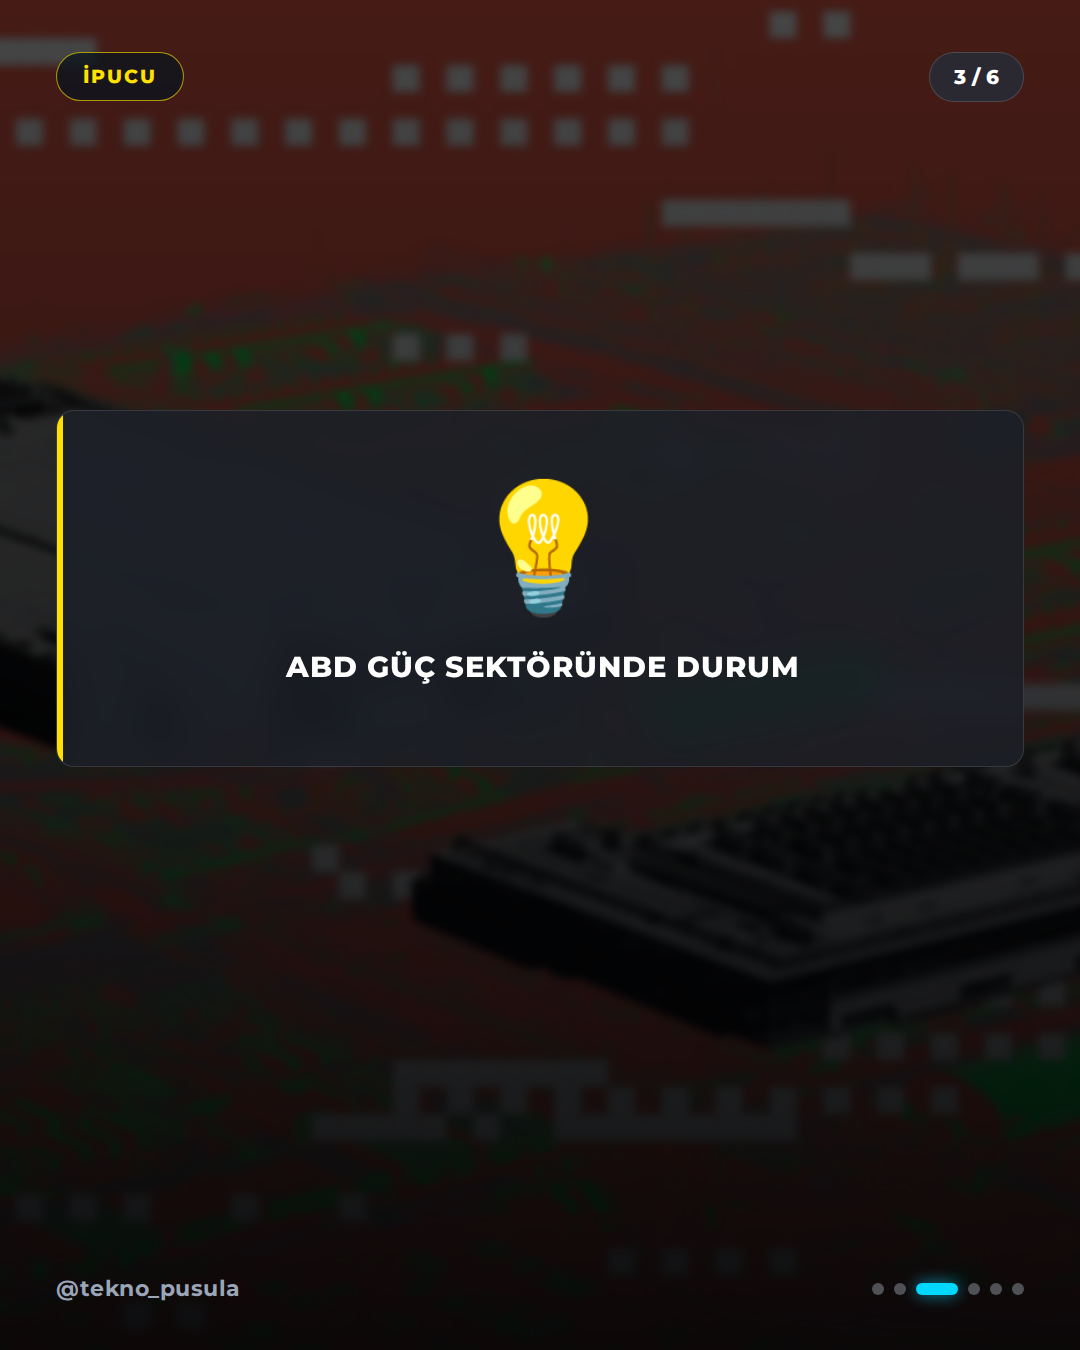
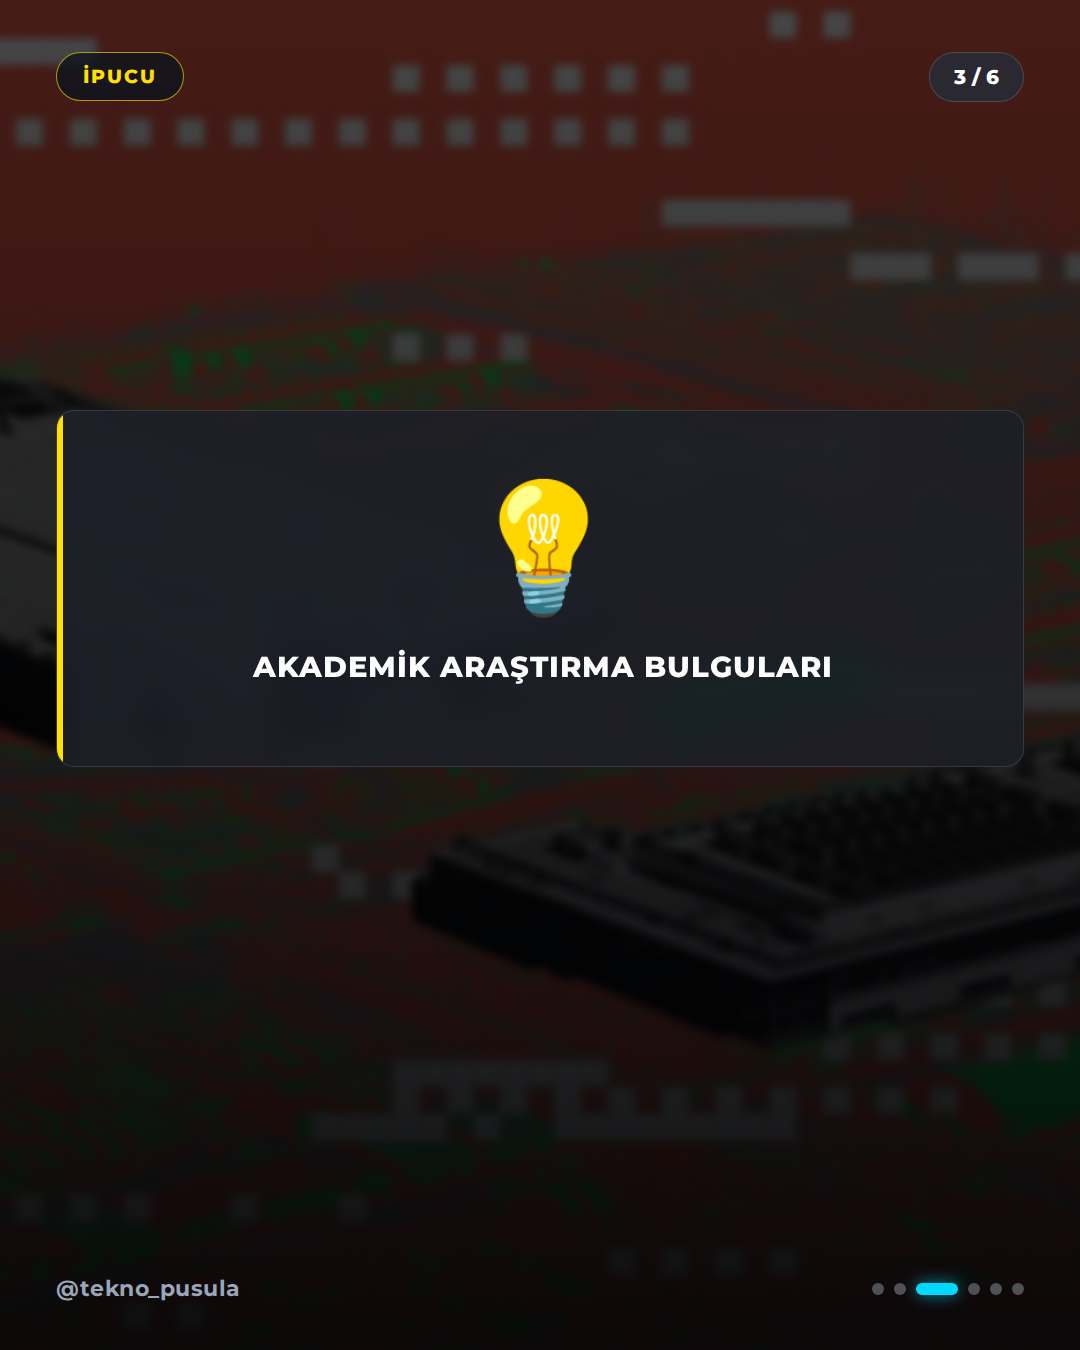
🤖 post: 2026-10-29 18:00 – Data centers could send US climate pollution skyrocketing

Changed region(s): [[0.2444, 0.4667, 0.7639, 0.5289]]

diff --git a/output/2026-10-29/04-1800-data-centers-could-send-us-climate-pollution-sky/verification.md b/output/2026-10-29/04-1800-data-centers-could-send-us-climate-pollution-sky/verification.md
@@ -3,40 +3,38 @@
 **Haber:** Data centers could send US climate pollution skyrocketing
 **Canonical URL:** https://www.theverge.com/science/1022258/data-centers-climate-change-carbon-dioxide-pollution-gas
 **Kaynaklar:** The Verge, MIT Technology Review
-**Kontrol zamanı:** 2026-10-29T20:28:21+03:00
+**Kontrol zamanı:** 2026-10-29T20:33:01+03:00
 **Sonuç:** ✅ YAYINLANABİLİR
 
 ---
 
 ## İddia Bazlı Sonuçlar
 
-### 1. ABD güç sektörünün karbondioksit kirliliği 2030 yılına kadar 2025 yılına göre yüzde 42 oranında artabilir.
+### 1. ABD elektrik sektörünün karbon dioksit kirliliği, veri merkezi elektrik talebi nedeniyle 2030 yılına kadar 2025 yılına göre yüzde 42 daha fazla artabilir.
 - **Karar:** ✅ `supported`
 - **Kanıtlar:**
   - [https://www.theverge.com/science/1022258/data-centers-climate-change-carbon-dioxide-pollution-gas](https://www.theverge.com/science/1022258/data-centers-climate-change-carbon-dioxide-pollution-gas)
     > The US power sector could release 42 percent more planet-heating carbon dioxide pollution by 2030 than it did in 2025 as it builds out more fossil fuel infrastructure to meet data center electricity demand, according to a new analysis by the Sierra Club.
-  - [https://www.theverge.com/science/1022258/data-centers-climate-change-carbon-dioxide-pollution-gas](https://www.theverge.com/science/1022258/data-centers-climate-change-carbon-dioxide-pollution-gas)
-    > The US power sector could release 42 percent more planet-heating carbon dioxide pollution by 2030 than it did in 2025 as it builds out more fossil fuel infrastructure to meet data center electricity demand
 
-### 2. Planlanan yapay zeka projeleri inşa edilirse elektrik üretiminden kaynaklanan CO2 emisyonları on yılın sonuna kadar 618 milyon ton artacak.
+### 2. Planlanan yapay zeka projeleri inşa edilirse elektrik üretiminden kaynaklanan CO2 emisyonları on katının sonuna kadar 618 milyon ton artacak.
 - **Karar:** ✅ `supported`
 - **Kanıtlar:**
   - [https://www.theverge.com/science/1022258/data-centers-climate-change-carbon-dioxide-pollution-gas](https://www.theverge.com/science/1022258/data-centers-climate-change-carbon-dioxide-pollution-gas)
     > CO2 emissions from electricity generation would increase by 618 million tons by the end of the decade if planned AI projects are constructed.
 
-### 3. Akademik araştırmacılar tarafından haziran ayında yayınlanan başka bir çalışma, veri merkezleri ve kripto madenlerinden gelen elektrik talebinin güç sektörü emisyonlarını 2030 yılına kadar yüzde 28 artırabileceğini öngördü.
+### 3. Akademik araştırmacılar tarafından haziran ayında yayınlanan başka bir çalışma, veri merkezi ve kripto madeni elektrik talebinin 2030 yılına kadar güç sektörü emisyonlarını yüzde 28 artırabileceğini öngördü.
 - **Karar:** ✅ `supported`
 - **Kanıtlar:**
   - [https://www.theverge.com/science/1022258/data-centers-climate-change-carbon-dioxide-pollution-gas](https://www.theverge.com/science/1022258/data-centers-climate-change-carbon-dioxide-pollution-gas)
     > Another study published by academic researchers in June forecast that electricity demand from data centers and crypto mines could push up power sector emissions by 28 percent by 2030 when compared to a scenario with no data center growth.
 
-### 4. Net ABD sera gazı emisyonları 2007 yılında yaklaşık 6,58 milyar metrik tondan 2025 yılında yaklaşık 5,35 milyar metrik tona geriledi.
+### 4. ABD'nin net seragazı emisyonları 2007 yılında yaklaşık 6,58 milyar metrik ton iken 2025 yılında yaklaşık 5,35 milyar metrik tona geriledi.
 - **Karar:** ✅ `supported`
 - **Kanıtlar:**
   - [https://www.theverge.com/science/1022258/data-centers-climate-change-carbon-dioxide-pollution-gas](https://www.theverge.com/science/1022258/data-centers-climate-change-carbon-dioxide-pollution-gas)
     > Net US greenhouse gas emission have fallen from a peak of about 6.58 billion metric tons in 2007 to about 5.35 billion metric tons in 2025.
 
-### 5. ABD, bu ay Environmental Defense Fund tarafından yayınlanan ayrı bir rapora göre, on yıldır olmadığı kadar çok fosil yakıt kapasitesi inşa etmeyi planlıyor.
+### 5. Environmental Defense Fund tarafından bu ay yayınlanan ayrı bir rapora göre ABD, son on yılda planladığından daha fazla fosil yakıt kapasitesi inşa etmeyi planlıyor.
 - **Karar:** ✅ `supported`
 - **Kanıtlar:**
   - [https://www.theverge.com/science/1022258/data-centers-climate-change-carbon-dioxide-pollution-gas](https://www.theverge.com/science/1022258/data-centers-climate-change-carbon-dioxide-pollution-gas)
@@ -48,11 +46,11 @@
 
 | İddia | 1. Tur | 2. Tur | Nihai |
 |-------|--------|--------|-------|
-| ABD güç sektörünün karbondioksit kirliliği 2030 yılına kadar | supported | supported | supported |
+| ABD elektrik sektörünün karbon dioksit kirliliği, veri merke | supported | supported | supported |
 | Planlanan yapay zeka projeleri inşa edilirse elektrik üretim | supported | supported | supported |
 | Akademik araştırmacılar tarafından haziran ayında yayınlanan | supported | supported | supported |
-| Net ABD sera gazı emisyonları 2007 yılında yaklaşık 6,58 mil | supported | supported | supported |
-| ABD, bu ay Environmental Defense Fund tarafından yayınlanan  | supported | supported | supported |
+| ABD'nin net seragazı emisyonları 2007 yılında yaklaşık 6,58  | supported | supported | supported |
+| Environmental Defense Fund tarafından bu ay yayınlanan ayrı  | supported | supported | supported |
 
 ## Kaynak Metinleri
 

diff --git a/output/2026-10-29/04-1800-data-centers-could-send-us-climate-pollution-sky/captions.md b/output/2026-10-29/04-1800-data-centers-could-send-us-climate-pollution-sky/captions.md
@@ -2,46 +2,44 @@
 
 ## INSTAGRAM
 
-Yapay zeka devrimi çevreye ne kadara mal oluyor? Veri merkezlerinin enerji talebi her geçen gün artıyor ve emisyonlar yükseliyor. Planlanan yapay zeka projeleri CO2 emisyonlarını on yılın sonuna kadar 618 milyon ton artırabilir. Teknolojik gelişmelerin çevresel maliyeti hakkında ne düşünüyorsunuz? Daha fazla teknoloji analizi için Tekno Pusula'yı takipte kalın. Kaynak: The Verge, MIT Technology Review
+Yapay zeka talebi enerji sektörünü nasıl etkiliyor? Veri merkezlerinin artan elektrik ihtiyacı nedeniyle ABD'nin karbon emisyonlarının 2030'a kadar önemli ölçüde artabileceği öngörülüyor. Planlanan projeler hayata geçerse CO2 emisyonları milyonlarca ton yükselebilir. Sizce veri merkezlerinin enerji ihtiyacı nasıl karşılanmalı? Kaynak: The Verge, MIT Technology Review
 
-#YapayZeka #KarbonAyakİzi #Teknoloji #Çevre #VeriMerkezi #Sürdürülebilirlik #Enerji #Gelecek #AI #TechNews #ClimateChange #GreenTech
+#YapayZeka #KarbonEmisyonu #VeriMerkezi #Teknoloji #Enerji #Sürdürülebilirlik #AI #DataCenter #Environment #TeknoPusula
 
 ## TIKTOK
 
-Yapay zeka projeleri karbon ayak izini nasıl etkiliyor? Veri merkezlerinin enerji talebi emisyonları artırıyor mu? Kaynak: The Verge, MIT Technology Review
+Yapay zeka patlaması çevreye faturası ne olacak? Veri merkezleri yüzünden karbon emisyonları katlanabilir! Sizce bu enerji nasıl sağlanmalı? Kaynak: The Verge, MIT Technology Review
 
-#yapayzeka #karbon #teknoloji #çevre #bilim
+#YapayZeka #Enerji #Gelecek #Teknoloji #AI
 
 ## X
 
-Yapay zeka projeleri ve veri merkezleri enerji talebini artırarak 2030'a kadar CO2 emisyonlarını milyonlarca ton artırabilir. Teknolojinin çevresel maliyeti hakkında ne düşünüyorsunuz? Kaynak: The Verge, MIT Technology Review
+Yapay zeka talebi ve veri merkezleri enerji sektörünü nasıl etkiliyor? 2030'a kadar karbon emisyonlarında büyük artış bekleniyor. Sizce veri merkezlerinin enerji ihtiyacı nasıl karşılanmalı? Kaynak: The Verge, MIT Technology Review
 
-#YapayZeka #KarbonAyakIzi
+#YapayZeka #Teknoloji
 
 ## THREADS
 
-Yapay Zeka ve Karbon Ayak İzi: Yeni Bir Dönem 💭
+Yapay Zeka ve Enerji Krizi 💡
 
-Veri merkezlerinin artan enerji talebi, güç sektörü emisyonlarını 2030 yılına kadar ciddi oranlarda artırabilir. Fosil yakıt kapasitesindeki yeni planlar ise endişe verici.
+Veri merkezlerinin artan elektrik talebi, karbon emisyonlarının 2030'a kadar önemli ölçüde artmasına neden olabilir. Fosil yakıt planları da durumu karmaşıklaştırıyor.
 
-Teknolojik gelişmelerin çevresel maliyeti hakkında ne düşünüyorsunuz? Kaynak: The Verge, MIT Technology Review
+Sizce veri merkezlerinin enerji ihtiyacı nasıl karşılanmalı? 💭
+
+Kaynak: The Verge, MIT Technology Review
 
 #YapayZeka
 
 ## LINKEDIN
 
-Yapay zeka teknolojilerinin hızla gelişmesi, veri merkezleri ve enerji altyapısı üzerinde benzeri görülmemiş bir baskı yaratıyor. Yapılan araştırmalar, planlanan yapay zeka projelerinin elektrik üretiminden kaynaklanan CO2 emisyonlarını on yılın sonuna kadar 618 milyon ton artırabileceğini öngörüyor.
-
-Sektörel tahminler, güç sektörü emisyonlarının 2030'a kadar %28 oranında artabileceğini gösterirken, fosil yakıt kapasitelerindeki artış planları da dikkat çekiyor. Sürdürülebilir bir dijital gelecekte enerji verimliliği kritik bir rol oynayacak.
-
-Teknolojik gelişmelerin çevresel maliyeti hakkında ne düşünüyorsunuz?
+Yapay zeka teknolojilerinin hızla gelişmesi, veri merkezleri üzerinden global enerji ve çevre sektörünü doğrudan etkiliyor. Araştırmalara göre, artan elektrik talebi karbon emisyonlarını önümüzdeki yıllarda yukarı çekebilir. Sektör paydaşlarının bu süreçte yenilenebilir enerji yatırımlarına ağırlık vermesi kritik önem taşıyor. Sizce veri merkezlerinin enerji ihtiyacı nasıl karşılanmalı?
 
 Kaynak: The Verge, MIT Technology Review
 
-#YapayZeka #Enerji #Sürdürülebilirlik #Teknoloji #VeriMerkezi
+#YapayZeka #VeriMerkezi #Enerji #Sürdürülebilirlik #Teknoloji
 
 ## FACEBOOK
 
-Yapay zeka ve karbon ayak izi ilişkisi yeni bir döneme giriyor. Veri merkezlerinin enerji talebi ve emisyonlar üzerindeki etkisi her geçen gün daha fazla tartışılıyor. Planlanan projelerin CO2 emisyonlarını on yılın sonuna kadar 618 milyon ton artırabileceği öngörülüyor. Teknolojik gelişmelerin çevresel maliyeti hakkında ne düşünüyorsunuz? Daha fazla teknoloji analizi için Tekno Pusula'yı takipte kalın. Kaynak: The Verge, MIT Technology Review
+Yapay zeka talebi enerji sektörünü nasıl dönüştürüyor? Veri merkezlerinin artan elektrik ihtiyacı nedeniyle karbon emisyonlarında ciddi bir artış bekleniyor. Planlanan projeler ve fosil yakıt eğilimleri dikkat çekiyor. Sizce veri merkezlerinin enerji ihtiyacı nasıl karşılanmalı? Kaynak: The Verge, MIT Technology Review
 
-#YapayZeka #KarbonAyakİzi #Teknoloji #Çevre #Sürdürülebilirlik
+#YapayZeka #VeriMerkezi #Enerji #Teknoloji
